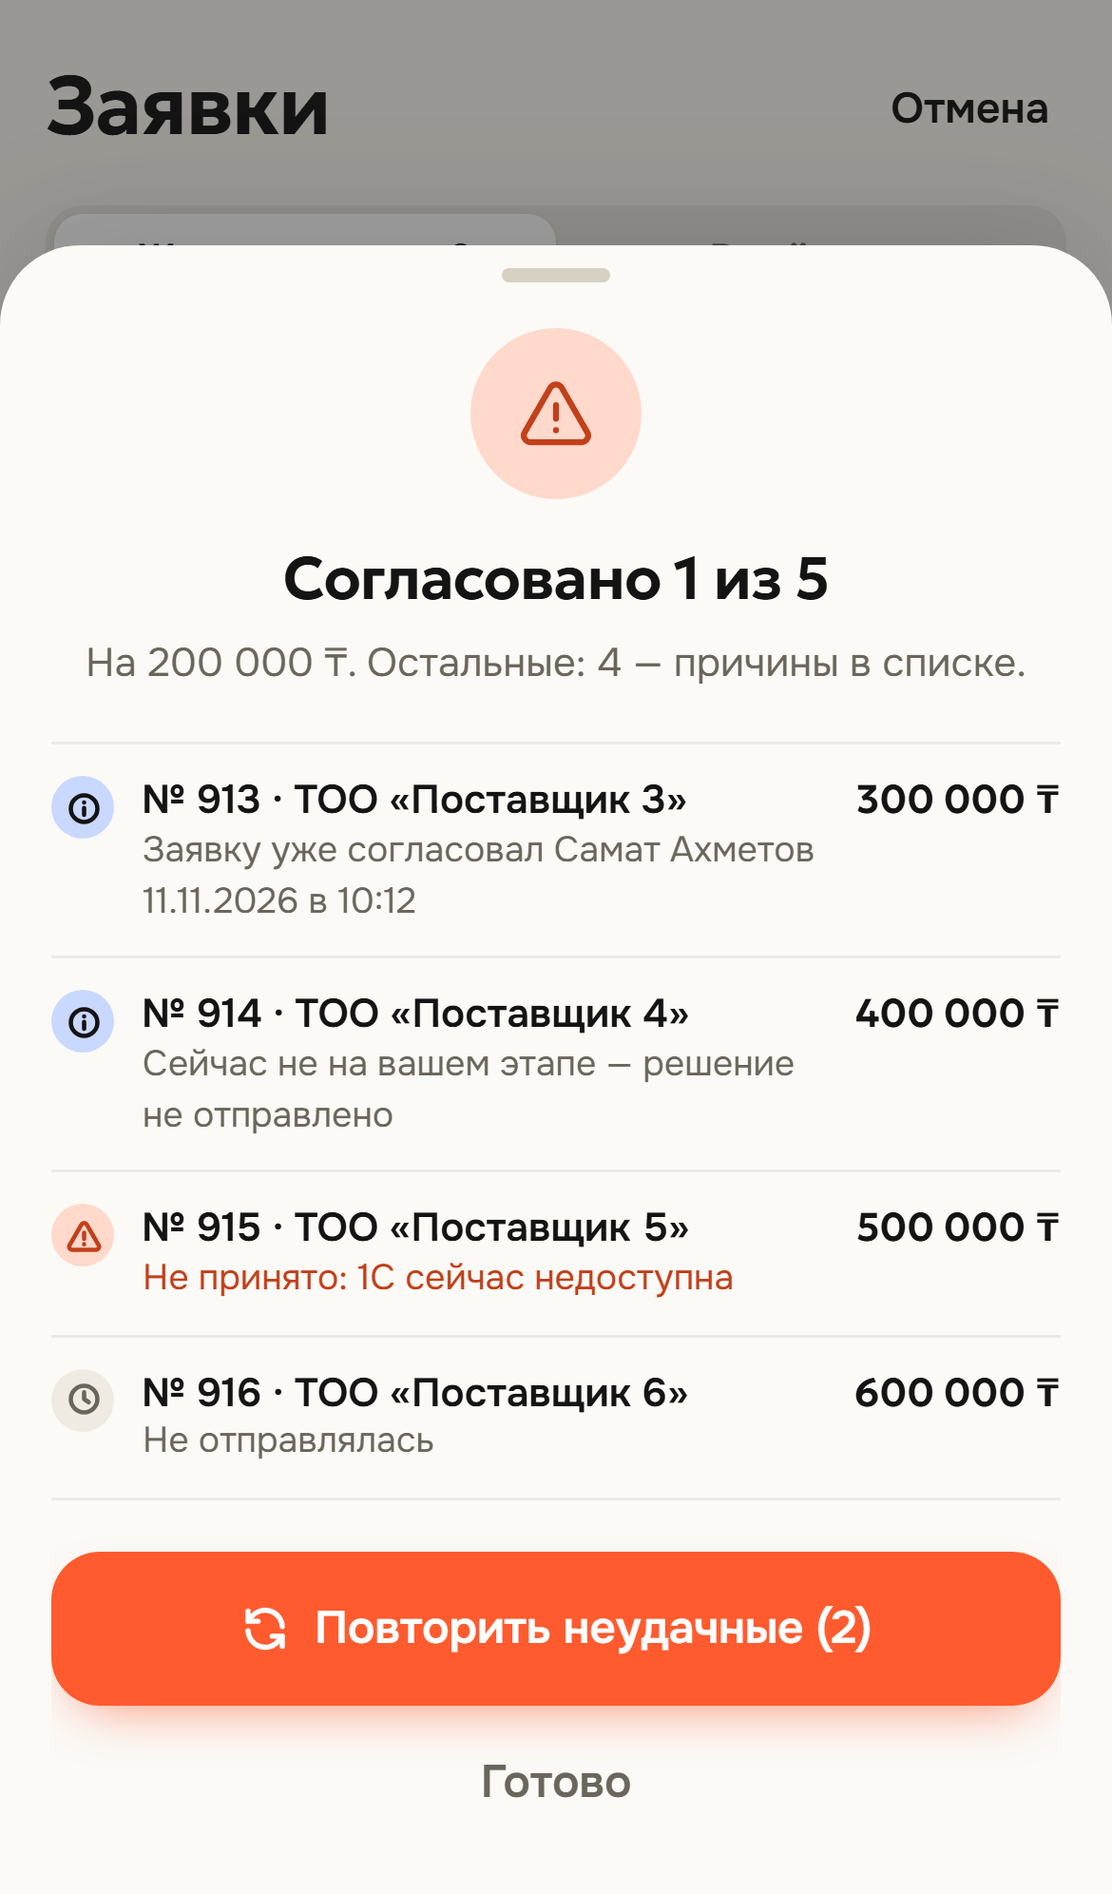
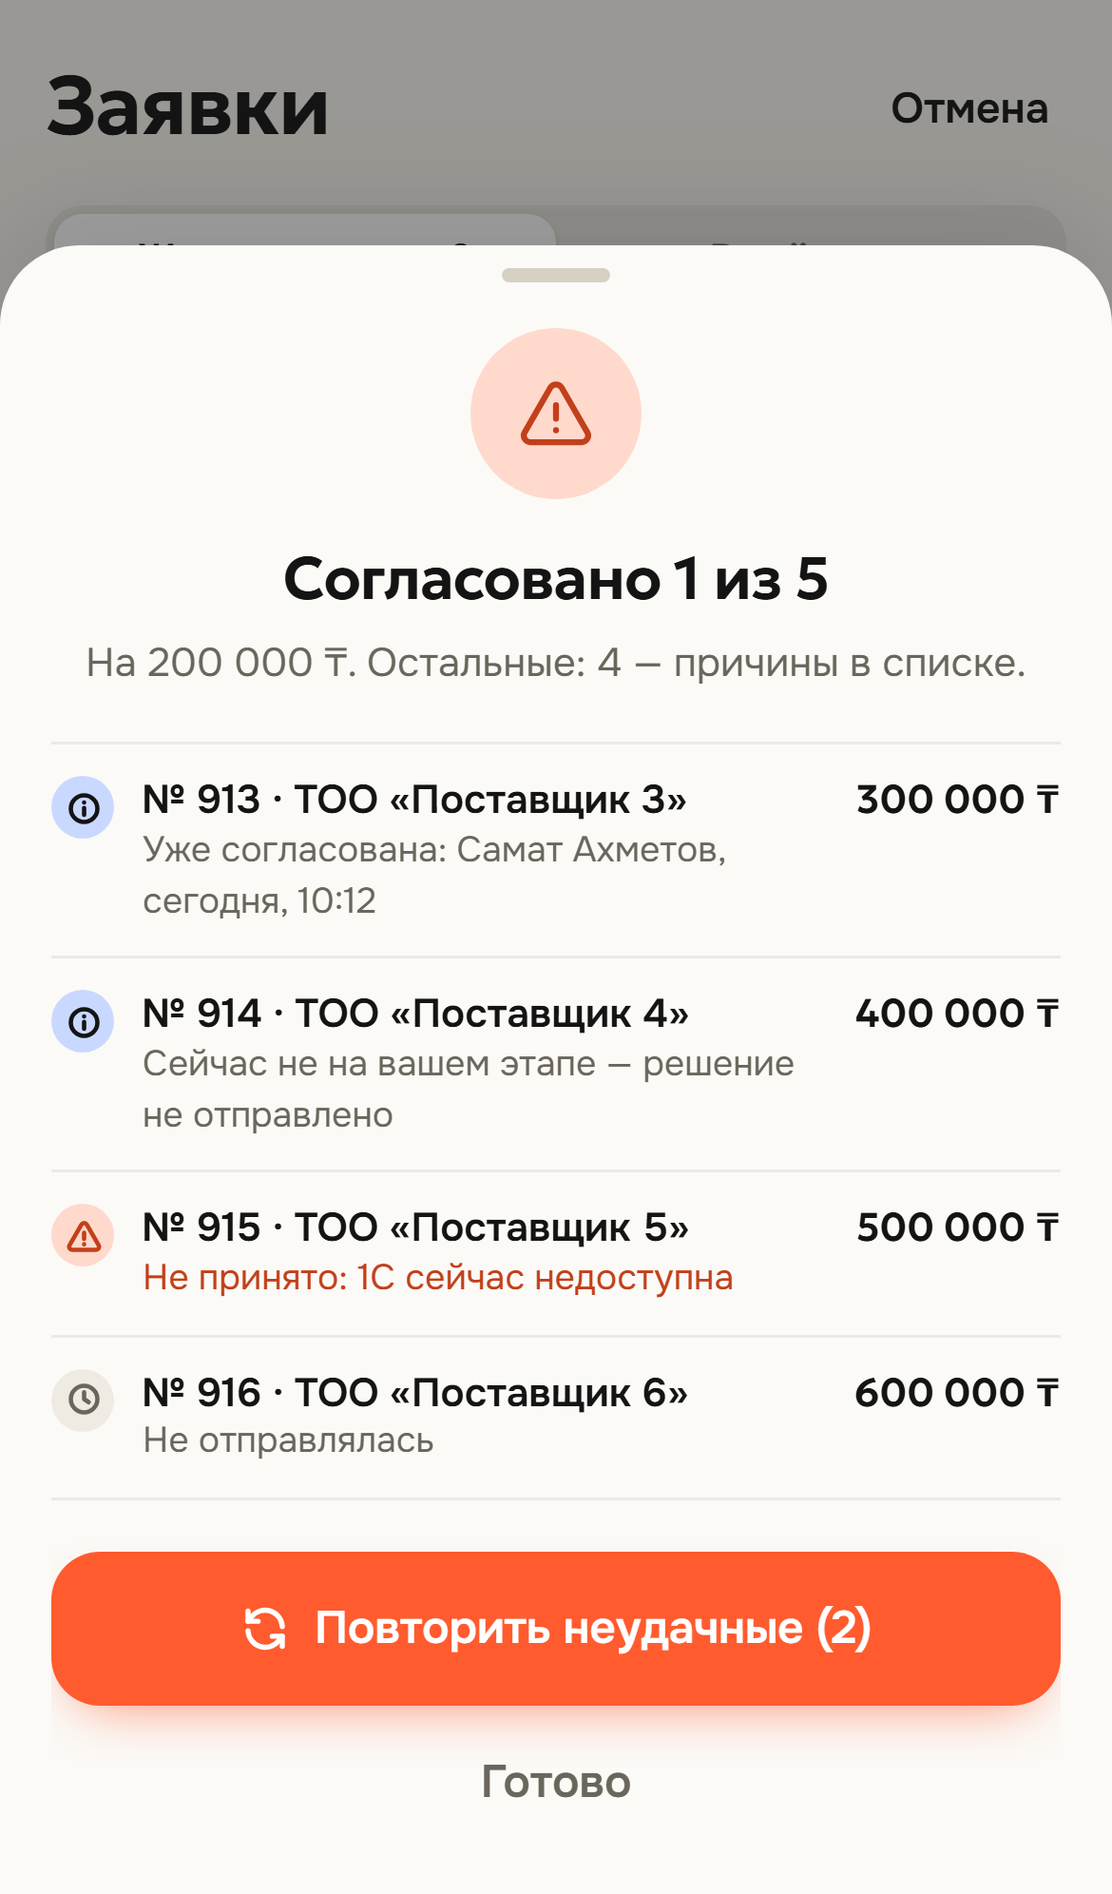
1.2.2: один ключ на заявку до окончательного ответа
- ключ согласования заявки держится, пока нет окончательного ответа (200, 409, 422, 404, 403): после обрыва,
  504 или 503 та же заявка уходит с тем же ключом — в серии, в новой серии и из карточки; так два решения
  одной заявки с разными ключами одновременно не уходят
- 409 already_decided в итоге серии — «Уже согласована: кто, когда» из details
- 422 idempotency_key_reused — «Не удалось отправить решение — повторите», повтор с новым ключом
- тесты: ключи между сериями и из карточки, 401 token_expired посреди серии, 504 без применённого решения

Changed region(s): [[0.1231, 0.4357, 0.7385, 0.498]]

diff --git a/docs/js/screens.js b/docs/js/screens.js
@@ -1447,7 +1447,50 @@ actions['req-tab'] = (t) => {
 // Только согласование: отклонить и вернуть на доработку требуют комментарий — по одной, из карточки.
 // Заявки сверх лимита в выбор не попадают: их согласуют по одной, глядя в карточку (переключается в config.js,
 // bulkOverLimit).
-let bulk = null; // { items, today, sel: Set(id), keys: Map(id → ключ), res: Map(id → итог), running, stop }
+let bulk = null; // { items, today, sel: Set(id), res: Map(id → итог), running, stop, finished }
+
+// Ключ согласования заявки (Idempotency-Key). В 1С два одновременных решения одной заявки с разными ключами могут
+// записаться дважды, поэтому ключ у заявки один, пока по ней нет окончательного ответа: повтор после обрыва, 504
+// или 503 — в той же серии, в новой серии или из карточки — идёт с тем же ключом, и сервер отвечает «уже принято»
+// (Idempotent-Replayed), а не решает заново. Окончательный ответ (200, 409, 422, 404, 403) ключ снимает: следующее
+// согласование — новое действие пользователя с новым ключом. Ключи живут в памяти и в sessionStorage вкладки —
+// переживают обновление страницы; это не токены, в запросах к серверу они и так уходят заголовком.
+const APPROVE_KEYS = 'finpuls-approve-keys';
+const approveKeys = (() => {
+  let m = {};
+  try {
+    m = JSON.parse(sessionStorage.getItem(APPROVE_KEYS) || '{}') || {};
+  } catch (e) {
+    m = {};
+  }
+  const fresh = Date.now() - 24 * 3600e3;
+  Object.keys(m).forEach((k) => {
+    if (!m[k] || typeof m[k].key !== 'string' || !(m[k].at > fresh)) delete m[k];
+  });
+  return m;
+})();
+function saveApproveKeys() {
+  try {
+    sessionStorage.setItem(APPROVE_KEYS, JSON.stringify(approveKeys));
+  } catch (e) {
+    /* хранилище недоступно — ключи остаются в памяти */
+  }
+}
+function approveKey(org, id) {
+  const k = `${org}/${id}`;
+  if (!approveKeys[k]) {
+    approveKeys[k] = { key: uuid(), at: Date.now() };
+    saveApproveKeys();
+  }
+  return approveKeys[k].key;
+}
+function approveSettled(org, id) {
+  delete approveKeys[`${org}/${id}`];
+  saveApproveKeys();
+}
+// Ответа, после которого судьба решения неизвестна или оно точно не принято из-за связи: ключ остаётся.
+const OPEN_CODES = ['network', 'timeout', 'upstream_unavailable', 'server_unavailable', 'too_many_requests', 'server_error'];
+const keepsKey = (e) => !(e instanceof ApiError) || (OPEN_CODES.includes(e.code) && (e.details || {}).contractCode !== 'idempotency_key_reused');
 const bulkOk = (r) => CONFIG.bulkOverLimit || !(r.overLimit > 0);
 const REQ_ACC = ['заявку', 'заявки', 'заявок'];
 const bulkPicked = () => (bulk ? bulk.items.filter((r) => bulk.sel.has(r.id)) : []);
@@ -1550,7 +1593,6 @@ actions['bulk-confirm'] = () => {
   const picked = bulkPicked();
   if (!picked.length) return;
   bulk.res = new Map();
-  bulk.keys = new Map(); // новое подтверждение — новые ключи: это новое действие пользователя
   const over = picked.filter((r) => r.overLimit > 0);
   openSheet(`<div class="sheet-title">Согласовать ${picked.length} ${plural(picked.length, REQ_ACC)}?</div>
     <div class="confirm-sum">${money(sum(picked, (r) => r.amount))}</div>
@@ -1571,8 +1613,11 @@ function bulkFail(e, today) {
   if (c === 'already_decided') {
     const det = e.details || {};
     const what = det.status === 'rejected' ? 'отклонена' : det.status === 'returned' ? 'возвращена на доработку' : 'согласована';
-    return { st: 'info', text: e.message || `Уже ${what}${det.by ? `: ${det.by}` : ''}${det.at ? `, ${stampAt(det.at, today)}` : ''}` };
+    // кто и когда — из details (6.4); нет имени — текст сервера как есть
+    return { st: 'info', text: det.by ? `Уже ${what}: ${det.by}${det.at ? `, ${stampAt(det.at, today)}` : ''}` : e.message || `Уже ${what}` };
   }
+  // ключ уже использован для другого решения — ошибка самого приложения: ключ снят, повтор уйдёт с новым
+  if (raw === 'idempotency_key_reused') return { st: 'fail', text: 'Не удалось отправить решение — повторите', retry: true };
   if (raw === 'not_awaiting_you') return { st: 'info', text: 'Сейчас не на вашем этапе — решение не отправлено' };
   if (c === 'forbidden') return { st: 'fail', text: 'Нет прав на это решение' };
   if (c === 'action_failed') return { st: 'fail', text: e.message || 'Учёт не принял решение' };
@@ -1629,15 +1674,16 @@ async function bulkRun(ids) {
       bulkRowUpdate(r);
       continue;
     }
-    if (!bulk.keys.has(r.id)) bulk.keys.set(r.id, uuid());
+    const key = approveKey(org, r.id); // один ключ на заявку, пока по ней нет окончательного ответа
     bulk.res.set(r.id, { st: 'run', text: 'Отправляется…' });
     bulkRowUpdate(r);
     let out;
     for (let attempt = 0; ; attempt++) {
       try {
-        const res = await api.decide(org, r.id, { decision: 'approve', comment: '', idempotencyKey: bulk.keys.get(r.id) });
+        const res = await api.decide(org, r.id, { decision: 'approve', comment: '', idempotencyKey: key });
         const final = !res || !res.requestStatus || res.requestStatus === 'approved';
         out = { st: 'ok', text: final ? 'Согласована' : `Согласована · дальше ${res.nextApprover || 'следующий этап'}` };
+        approveSettled(org, r.id);
         break;
       } catch (e) {
         if (isSessionEnd(e)) {
@@ -1656,6 +1702,7 @@ async function bulkRun(ids) {
           continue; // тот же ключ: сервер проверит, применилось ли решение
         }
         out = bulkFail(e, bulk.today);
+        if (!keepsKey(e)) approveSettled(org, r.id);
         break;
       }
     }
@@ -2033,16 +2080,23 @@ async function submitDecision(kind, comment, btn) {
   const r = ui.request;
   if (!r || ui.busy) return;
   // Тот же ключ при повторе той же операции: сервер не применит решение дважды.
+  // Согласование — ключ заявки (approveKey): он один и для карточки, и для массового согласования.
+  const orgNow = api.orgId();
   if (!ui.decision || ui.decision.reqId !== r.id || ui.decision.kind !== kind) {
-    ui.decision = { reqId: r.id, kind, comment, key: uuid() };
+    ui.decision = { reqId: r.id, kind, comment, key: kind === 'approve' ? approveKey(orgNow, r.id) : uuid() };
   }
   ui.decision.comment = comment;
   setBusy(btn, 'Отправляется…');
   let res;
   try {
-    res = await api.decide(api.orgId(), r.id, { decision: kind, comment, idempotencyKey: ui.decision.key });
+    res = await api.decide(orgNow, r.id, { decision: kind, comment, idempotencyKey: ui.decision.key });
   } catch (e) {
     ui.busy = false;
+    if (kind === 'approve' && !isSessionEnd(e) && !keepsKey(e)) {
+      approveSettled(orgNow, r.id); // окончательный отказ: следующее согласование — с новым ключом
+      if ((e.details || {}).contractCode === 'idempotency_key_reused') ui.decision.key = approveKey(orgNow, r.id); // «Повторить» — уже с новым
+      else ui.decision = null;
+    }
     if (isSessionEnd(e)) {
       await closeSheet(true);
       onUnauthorized(e);
@@ -2053,6 +2107,7 @@ async function submitDecision(kind, comment, btn) {
   }
   ui.busy = false;
   ui.decision = null;
+  if (kind === 'approve') approveSettled(orgNow, r.id);
   invalidate();
   await closeSheet();
   const amount = money(r.amount);

diff --git a/spec/api-client.md b/spec/api-client.md
@@ -183,30 +183,40 @@
   `true` такие заявки выбираются наравне с остальными, в подтверждении — «Сверх лимита: K из N» и сумма превышения.
 - **Подтверждение.** Шторка: «Согласовать N заявок?», общая сумма, список (номер, контрагент, сумма),
   «Согласовать N» / «Отмена». До нажатия «Согласовать N» ни один запрос не уходит.
-- **Отправка.** По порядку списка, следующая — после ответа на предыдущую. У каждой заявки свой `Idempotency-Key`
-  (новый на каждое подтверждение). Шторка показывает «Согласование: K из N» и состояние каждой заявки; закрыть её
-  нельзя, есть «Остановить» — текущая заявка дойдёт, остальные не отправляются.
+- **Отправка.** Строго по одной, по порядку списка: следующая — только после ответа на предыдущую. Шторка показывает
+  «Согласование: K из N» и состояние каждой заявки; закрыть её нельзя, есть «Остановить» — текущая заявка дойдёт,
+  остальные не отправляются.
+- **Ключ.** У заявки один `Idempotency-Key`, пока по ней нет окончательного ответа (`200`, `409`, `422`, `404`,
+  `403`). Обрыв, таймаут, `504`, `503`, `401 token_expired` с обновлением токена — та же заявка повторяется с тем же
+  ключом: автоматически (один раз, если ответа нет), кнопкой «Повторить неудачные», в новой серии или из карточки
+  заявки. Так два решения одной заявки с разными ключами одновременно не уходят. После окончательного ответа ключ
+  снимается; следующее согласование — новое действие с новым ключом. Ключи без окончательного ответа лежат в памяти
+  и в `sessionStorage` вкладки (`finpuls-approve-keys`, сутки) — переживают обновление страницы.
 - **Нет ответа** (обрыв, таймаут, `504 source_timeout`): один автоматический повтор с тем же ключом. Снова нет
   ответа — очередь останавливается.
+- **Приложение закрыли посреди серии.** Автоматических повторов при следующем открытии нет: список заявок просто
+  перечитывается, пользователь видит, что осталось.
 
 | Ответ по заявке | В итоге у заявки | Очередь | Повторить |
 |---|---|---|---|
 | `200`, `status: approved` | «Согласована» | дальше | — |
 | `200`, `status: on_approval` | «Согласована · дальше <следующий согласующий>» | дальше | — |
-| `409 already_decided` | `message` сервера (кто и когда) | дальше | нет |
+| `409 already_decided` | «Уже согласована: <кто>, <когда>» из `details` (`decided_by`, `decided_at`, `decision`); без имени — `message` сервера | дальше | нет |
 | `409 not_awaiting_you` | «Сейчас не на вашем этапе — решение не отправлено» | дальше | нет |
 | `422 action_failed` | `message` учёта как есть | дальше | нет |
 | `404` | «Заявка не найдена — возможно, её удалили» | дальше | нет |
 | `503 source_unavailable` | «Не принято: 1С сейчас недоступна» | стоп | да |
 | нет ответа после повтора | «Нет ответа — неизвестно, принято ли решение. Повтор безопасен: дважды оно не применится» | стоп | да |
 | `502/503/504` без кода, `429` | «Не принято: сервер недоступен» | стоп | да |
+| `422 idempotency_key_reused` (ошибка приложения) | «Не удалось отправить решение — повторите»; ключ снимается, повтор — с новым | дальше | да |
 | прочее (`500` …) | «Не удалось отправить решение» | дальше | да |
 | очередь остановлена раньше | «Не отправлялась» | — | да |
 | `401`, `403 access_revoked` | отправка прекращается, экран входа | стоп | — |
 
 - **Итог.** «Согласовано K из N» (или «Согласовано: N») и сумма согласованных, список с причиной у каждой
   несогласованной. «Повторить неудачные (M)» отправляет только те, что можно повторить, **с теми же ключами** — второго
-  решения не будет. «Готово» (или закрытие шторки) — список заявок перечитывается.
+  решения не будет. Отказ по одной заявке (`409`, `422`) серию не останавливает; останавливают её только недоступность
+  учёта или сервера и отсутствие ответа. «Готово» (или закрытие шторки) — список заявок перечитывается.
 
 ## Одинаковые запросы
 
